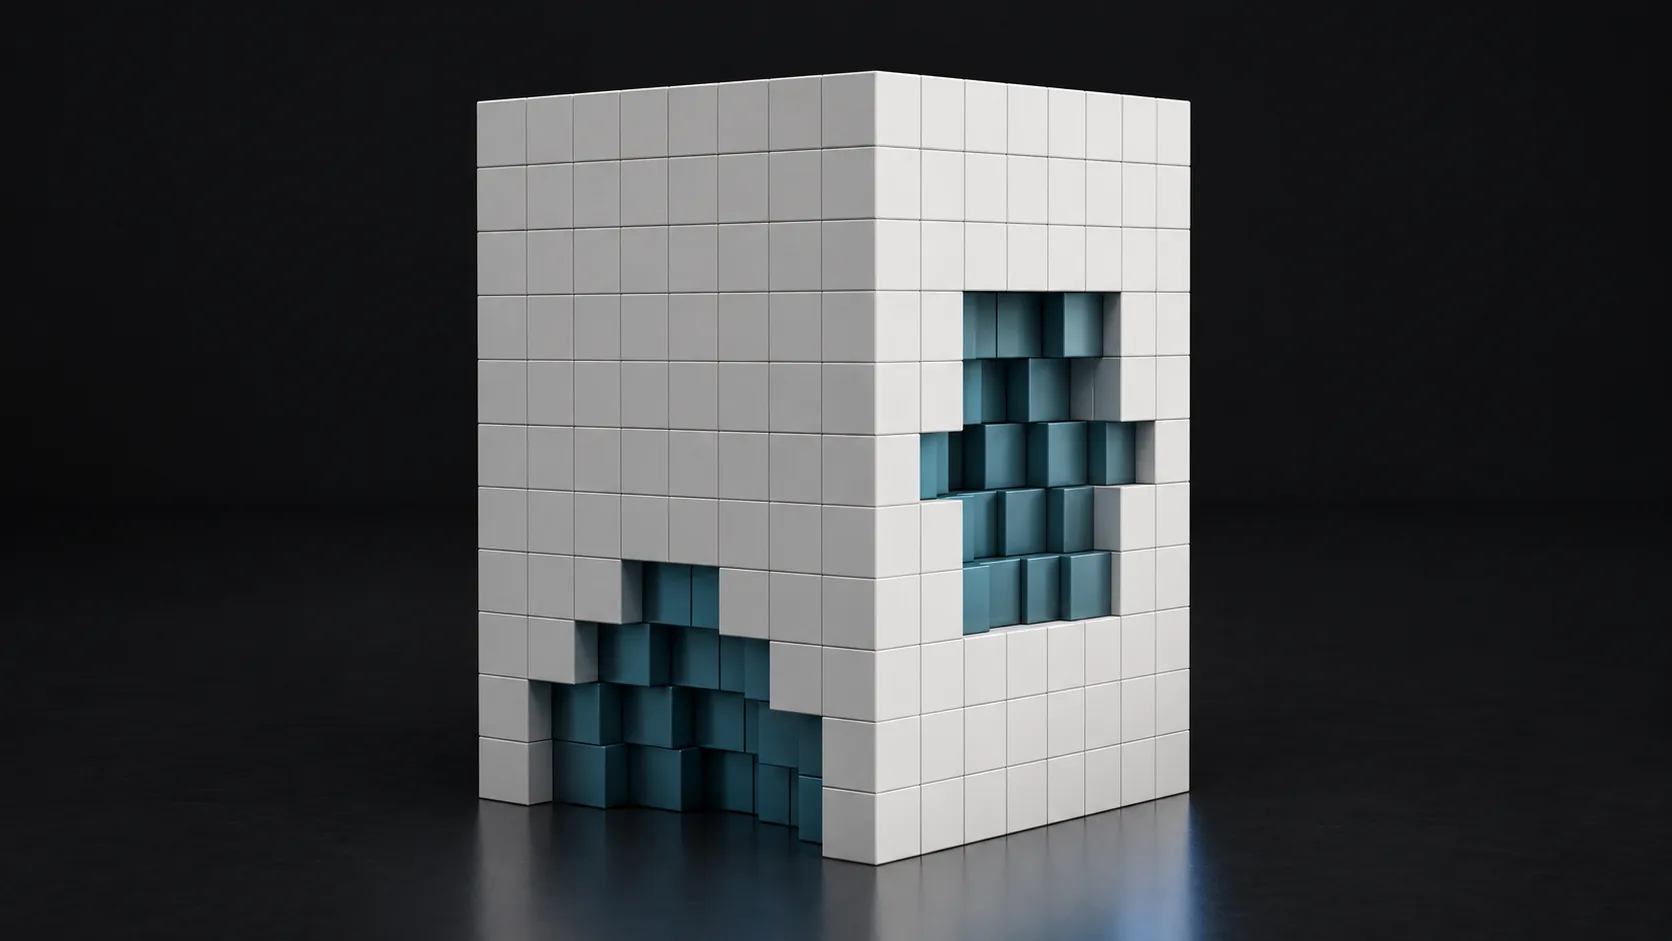
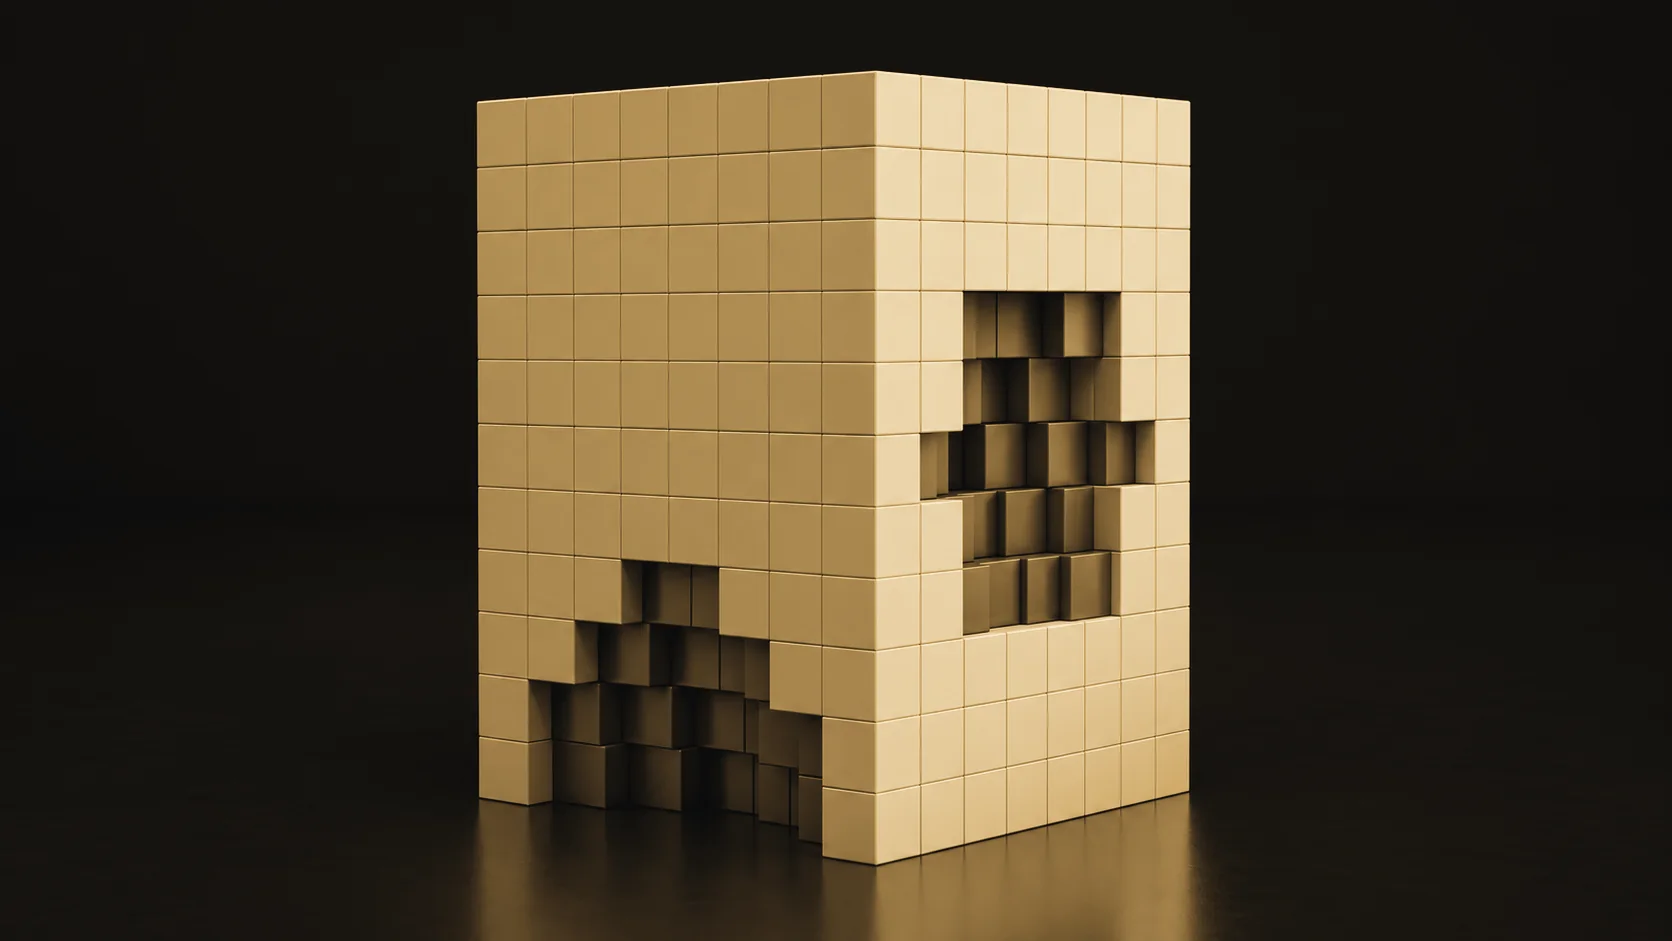
Home reel: tone w19..w21 gold on black so they follow every theme (red, black, white)
Claude-Session: https://claude.ai/code/session_019SkA8MTfyoRStRLmeG8EgB

diff --git a/README.md b/README.md
@@ -25,7 +25,7 @@ The untouched classic version is also kept on the git branch `classic`.
 ## Student works gallery
 The "Student work" page is one long, frame-free reel (functions `gxBuild()` / `gxInit()` in `index.html`): scrolling slides the works sideways over the same parametric hairlines as the hero; the work that reaches the centre turns from B&W to colour; clicking opens the full-size image from `IM` in the lightbox. Frames use `works/w10.webp` (first, the black-and-gold render) then `works/w1..w9.webp` (1700px), in the order of `WF`; the full-size originals stay inside `index.html` (`IM`, same order) for the lightbox. To add a work: put its 1700px WebP in `works/`, then add one entry at the right place in `IM`, `IP`, `IK` and `WF`.
 
-The **home page** shows only black-background renders: the entries of `IM` listed in `HB` (the first one is also on the works page; `works/w11..w14` and `works/w15..w21` (appended at indices 14–20 of `IM`/`WF`, and listed in `HB`) are home-only, the works page list is `WK`), plus the "Gold on black" renders students agreed to show (served by the AI Worker at `/gallery`, see `backend/render-worker/SETUP.md`; review or delete them from `admin.html`). With 3 or more it uses the same scrolling reel without the parametric hairlines (`gxMake('hgx', …)`), otherwise a simple grid. These pictures follow the site theme with CSS filters only (end of the style block, `.hgq`): black + gold = as they are; white + gold / white + black / white + red = the picture is inverted so the black ground becomes white and the lit parts turn gold / black / red. Students' renders get the same treatment automatically. To put another work on the home page, add its index to `HB`. Colours come from the theme variables, and in RTL languages the reel runs right-to-left.
+The **home page** shows only black-background renders: the entries of `IM` listed in `HB` (the first one is also on the works page; `works/w11..w14` and `works/w15..w21` (appended at indices 14–20 of `IM`/`WF`, and listed in `HB`; `w19..w21` are gold-toned on black, because the theme filters below turn gold into red / black / white — a picture that is blue or white to begin with will not follow the theme, so tone new renders gold first) are home-only, the works page list is `WK`), plus the "Gold on black" renders students agreed to show (served by the AI Worker at `/gallery`, see `backend/render-worker/SETUP.md`; review or delete them from `admin.html`). With 3 or more it uses the same scrolling reel without the parametric hairlines (`gxMake('hgx', …)`), otherwise a simple grid. These pictures follow the site theme with CSS filters only (end of the style block, `.hgq`): black + gold = as they are; white + gold / white + black / white + red = the picture is inverted so the black ground becomes white and the lit parts turn gold / black / red. Students' renders get the same treatment automatically. To put another work on the home page, add its index to `HB`. Colours come from the theme variables, and in RTL languages the reel runs right-to-left.
 The earlier walk-through 3D museum hall is kept on the git branch `gallery-3d`.
 
 ## Phones (up to 700 px wide)
